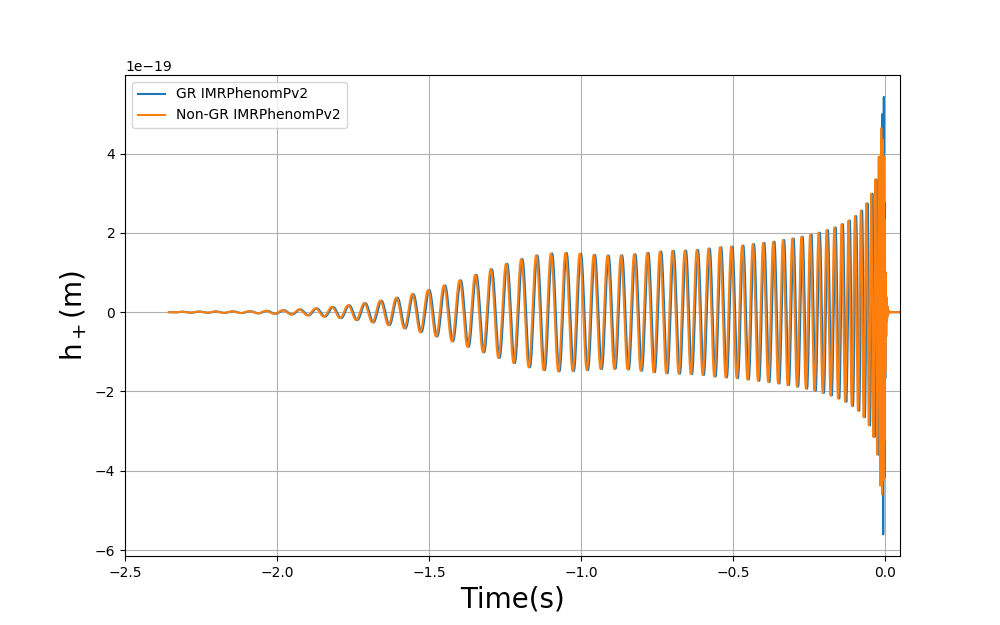
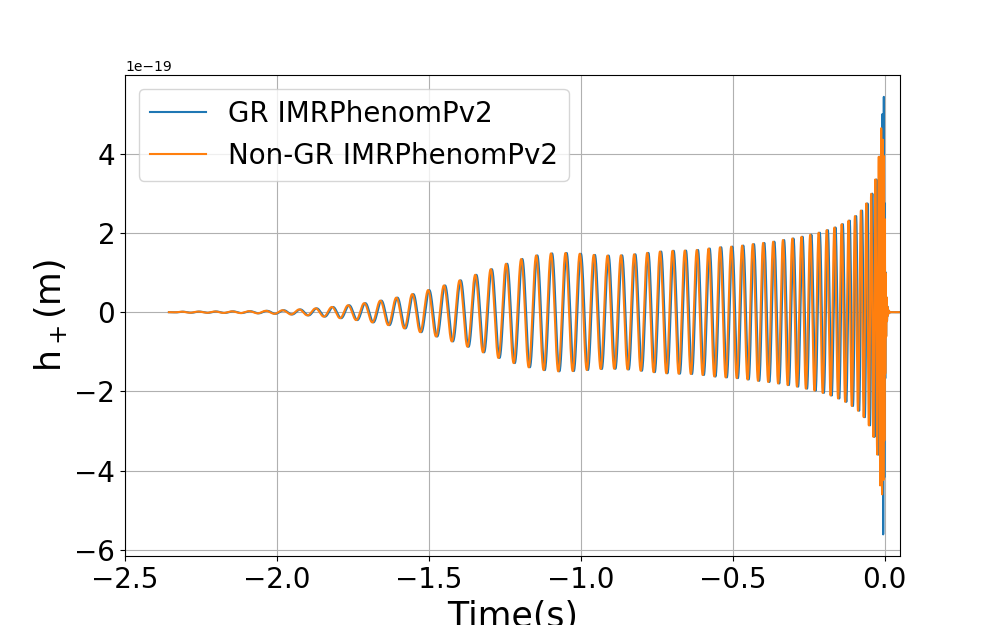
Axes formatting

diff --git a/nonGR_IMRPhenomPv2.py b/nonGR_IMRPhenomPv2.py
@@ -86,7 +86,7 @@ for nonGR in nGR:
 
 		# If the match is less than 0.97 then break from the loop
 		if m <= 0.97:
-			print j
+		#	print j
 			break
 		# Increasing the non-GR value
 		j += 0.01
@@ -94,19 +94,20 @@ for nonGR in nGR:
 	# Re-setting the non-GR parameter to zero.
         p[str(nonGR)] = 0
 
-	'''
-	Plotting and saving the waveforms
+	
+	# Plotting and saving the waveforms
 	
 	plt.figure('%s'%nonGR, figsize = (10.0, 6.25))
 	plt.plot(hp.sample_times, hp, label = 'GR IMRPhenomPv2')
 	plt.plot(sp.sample_times, sp, label = 'Non-GR IMRPhenomPv2')
-	plt.xlabel('Time(s)', fontsize = 20)
-	plt.ylabel('h$_+$(m)', fontsize = 20)
+	plt.xlabel('Time(s)', fontsize = 25)
+	plt.ylabel('h$_+$(m)', fontsize = 25)
 #	plt.title(('$%s = %.2f, M_1 = 20 M_\odot, M_2 = 30 M_\odot$'%(nonGR,j)), fontsize = 20)	
-	plt.legend(loc = 'best')
+	plt.legend(loc = 'best', fontsize = 20)
 	plt.xlim(-2.5, 0.05)
+	plt.xticks(fontsize = 20)
+	plt.yticks(fontsize = 20)
 	plt.grid()
 	plt.draw()
 	plt.savefig('/home/c1320229/non-GR/%s'%nonGR+'zero_spin.png', bbox = 'tight')
 	#plt.show()
-	'''
